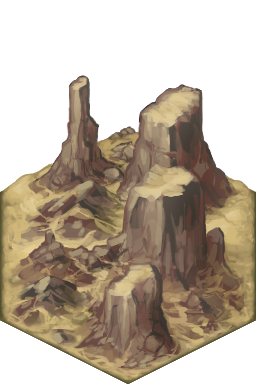
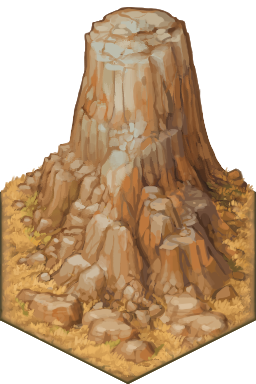
feat(territory): blend biome boundaries and rebalance terrain

diff --git a/src/ui/territory_map_painter.ts b/src/ui/territory_map_painter.ts
@@ -9,6 +9,7 @@ import {
   territoryMapArt,
   territoryMapArtKeyForCell,
   territoryMapArtTransformForCell,
+  territoryTransitionArtKey,
   territoryTerrainArtRect,
 } from './territory_map_art';
 import {
@@ -284,10 +285,10 @@ export class TerritoryMapPainter {
     const sorted = [...cells].sort((a, b) => a.my - b.my || a.mx - b.mx);
     ctx.imageSmoothingEnabled = true;
     ctx.imageSmoothingQuality = 'high';
-    // Each cell draws exactly one complete authored tile. Flat ground variants
-    // can turn in exact sixth-steps; upright silhouettes only mirror, keeping
-    // their isometric vertical read intact. Back-to-front order preserves the
-    // trees, mountains and buildings that rise above the common footprint.
+    // Each cell draws one complete authored tile, followed by six possible
+    // neighbor-aware material bands. The bands are generated at runtime for
+    // every directional combination, avoiding a brittle transition-sprite
+    // matrix while keeping the exact authored hex footprint and pivot.
     for (const cell of sorted) {
       const key = territoryMapArtKeyForCell(cell);
       const image = art[key];
@@ -305,7 +306,63 @@ export class TerritoryMapPainter {
       if (transform.mirrorX) ctx.scale(-1, 1);
       ctx.drawImage(image, rect.x - cell.mx, rect.y - cell.my, rect.width, rect.height);
       ctx.restore();
+      this.biomeTransitions(ctx, cell, art);
     }
+  }
+
+  private biomeTransitions(
+    ctx: CanvasRenderingContext2D,
+    cell: TerritoryMapHex,
+    art: TerritoryMapArt,
+  ): void {
+    for (let side = 0; side < 6; side += 1) {
+      const neighborBiome = cell.neighborBiomes[side];
+      if (!neighborBiome || neighborBiome === cell.biome) continue;
+      const key = territoryTransitionArtKey(neighborBiome, cell.q, cell.r, side);
+      const image = art[key];
+      if (!image) continue;
+      const rect = territoryTerrainArtRect(cell.mx, cell.my, cell.radiusPx);
+      const transform = territoryMapArtTransformForCell(
+        { q: cell.q + side * 17, r: cell.r - side * 11 },
+        key,
+      );
+      // Two nested trapezoids feather the neighbor material into this cell.
+      // The opposite cell performs the mirrored operation, giving every shared
+      // edge a soft two-material handoff without hiding either tile's centre.
+      this.transitionBand(ctx, cell, side, 1, 0.72, image, rect, transform, 0.5);
+      this.transitionBand(ctx, cell, side, 0.72, 0.5, image, rect, transform, 0.19);
+    }
+  }
+
+  private transitionBand(
+    ctx: CanvasRenderingContext2D,
+    cell: TerritoryMapHex,
+    side: number,
+    outerScale: number,
+    innerScale: number,
+    image: HTMLImageElement,
+    rect: ReturnType<typeof territoryTerrainArtRect>,
+    transform: ReturnType<typeof territoryMapArtTransformForCell>,
+    alpha: number,
+  ): void {
+    const start = -Math.PI / 6 - (Math.PI / 3) * side;
+    const end = start + Math.PI / 3;
+    const outer = cell.radiusPx * outerScale;
+    const inner = cell.radiusPx * innerScale;
+    ctx.save();
+    ctx.beginPath();
+    ctx.moveTo(cell.mx + Math.cos(start) * outer, cell.my + Math.sin(start) * outer);
+    ctx.lineTo(cell.mx + Math.cos(end) * outer, cell.my + Math.sin(end) * outer);
+    ctx.lineTo(cell.mx + Math.cos(end) * inner, cell.my + Math.sin(end) * inner);
+    ctx.lineTo(cell.mx + Math.cos(start) * inner, cell.my + Math.sin(start) * inner);
+    ctx.closePath();
+    ctx.clip();
+    ctx.globalAlpha = alpha;
+    ctx.translate(cell.mx, cell.my);
+    if (transform.rotationSteps) ctx.rotate((transform.rotationSteps * Math.PI) / 3);
+    if (transform.mirrorX) ctx.scale(-1, 1);
+    ctx.drawImage(image, rect.x - cell.mx, rect.y - cell.my, rect.width, rect.height);
+    ctx.restore();
   }
 
   private artForCell(cell: TerritoryMapHex, art: TerritoryMapArt): HTMLImageElement | undefined {

diff --git a/src/sim/territory_biome.ts b/src/sim/territory_biome.ts
@@ -63,12 +63,12 @@ function inlandTerrain(
   // directly here: that source is intentionally granular and would recreate
   // the checkerboard this visual geography is replacing. Both fields below
   // are low-frequency, so every branch produces a contiguous region.
-  if (elevation > 0.82) return 'mountain';
-  if (elevation > 0.72) return 'highland';
-  if (moisture > 0.72 && elevation < 0.43) return 'marsh';
-  if (moisture > 0.65) return 'forest';
-  if (moisture > 0.53) return 'woodlands';
-  if (moisture < 0.25 && elevation < 0.42) return 'wastes';
+  if (elevation > 0.93) return 'mountain';
+  if (elevation > 0.84) return 'highland';
+  if (moisture > 0.8 && elevation < 0.39) return 'marsh';
+  if (moisture > 0.82) return 'forest';
+  if (moisture > 0.6) return 'woodlands';
+  if (moisture < 0.18 && elevation < 0.36) return 'wastes';
   return 'grassland';
 }
 
@@ -89,21 +89,21 @@ export function territoryVisualBiome(
 
   // Cold cap. Elevation and moisture select broad sub-regions, not individual
   // random tiles, because both fields are sampled on a seven/eight-cell lattice.
-  if (ny < -0.36) {
-    if (elevation > 0.57 || Math.abs(nx + 0.06) < 0.1) return 'snowMountain';
-    return moisture > 0.5 ? 'snowForest' : 'snowfield';
+  if (ny < -0.67) {
+    if (elevation > 0.84 || (Math.abs(nx + 0.06) < 0.04 && elevation > 0.7)) return 'snowMountain';
+    return moisture > 0.7 ? 'snowForest' : 'snowfield';
   }
 
   // Warm continental east/south-east. Tall mesas stay within the desert mass
   // so their silhouettes do not pepper otherwise green land.
-  if (nx > 0.3 && ny > -0.12) {
-    return elevation > 0.58 ? 'desertMesa' : 'desert';
+  if (nx > 0.61 && ny > -0.02) {
+    return nx > 0.78 && elevation > 0.78 ? 'desertMesa' : 'desert';
   }
 
   // A diagonal mountain spine separates the western temperate lands from the
   // dry east. Noise breaks it into natural passes while preserving continuity.
   const ridge = Math.abs(nx + ny * 0.28 + 0.05);
-  if (ridge < 0.1 && elevation > 0.38) return elevation > 0.55 ? 'mountain' : 'highland';
+  if (ridge < 0.045 && elevation > 0.62) return elevation > 0.83 ? 'mountain' : 'highland';
 
   return inlandTerrain(cell.terrain, moisture, elevation);
 }

diff --git a/src/ui/territory_map_art.ts b/src/ui/territory_map_art.ts
@@ -40,6 +40,22 @@ export interface TerritoryMapArtRect {
   height: number;
 }
 
+export type TerritoryTransitionArtKey =
+  | 'grassland'
+  | 'grasslandAlt'
+  | 'woodlands'
+  | 'highland'
+  | 'highlandAlt'
+  | 'marsh'
+  | 'marshAlt'
+  | 'marshBog'
+  | 'snowfield'
+  | 'snowfieldAlt'
+  | 'desert'
+  | 'desertAlt'
+  | 'wastes'
+  | 'wastesAlt';
+
 const HEX_HEIGHT = Math.sqrt(3);
 const SOURCE_HEIGHT = 384;
 const SOURCE_FOOTPRINT_TOP = 123;
@@ -113,6 +129,31 @@ function artHash(q: number, r: number, salt: number): number {
   let value = Math.imul(q ^ salt, 0x45d9f3b) ^ Math.imul(r + salt, 0x119de1f3);
   value = Math.imul(value ^ (value >>> 16), 0x45d9f3b);
   return (value ^ (value >>> 16)) >>> 0;
+}
+
+/**
+ * Returns a low-silhouette material layer for a directional biome seam. Tall
+ * forests, mesas and mountains deliberately collapse to their matching ground
+ * material so transition bands never duplicate upright landmarks.
+ */
+export function territoryTransitionArtKey(
+  biome: TerritoryVisualBiome,
+  q: number,
+  r: number,
+  side: number,
+): TerritoryTransitionArtKey {
+  const variant = artHash(q + side * 17, r - side * 11, 0x5ac4_17e9);
+  if (biome === 'grassland') return variant % 3 === 0 ? 'grasslandAlt' : 'grassland';
+  if (biome === 'woodlands' || biome === 'forest') return 'woodlands';
+  if (biome === 'highland' || biome === 'mountain')
+    return variant % 2 === 0 ? 'highlandAlt' : 'highland';
+  if (biome === 'marsh')
+    return variant % 3 === 0 ? 'marshBog' : variant % 2 === 0 ? 'marshAlt' : 'marsh';
+  if (biome === 'snowfield' || biome === 'snowForest' || biome === 'snowMountain')
+    return variant % 3 === 0 ? 'snowfieldAlt' : 'snowfield';
+  if (biome === 'desert' || biome === 'desertMesa')
+    return variant % 3 === 0 ? 'desertAlt' : 'desert';
+  return variant % 2 === 0 ? 'wastesAlt' : 'wastes';
 }
 
 /** Couples visual density to the resource tier while varying ordinary terrain. */

diff --git a/tests/territory_biome.test.ts b/tests/territory_biome.test.ts
@@ -56,6 +56,25 @@ describe('territory visual biomes', () => {
     expect([...biomes].some((biome) => ['highland', 'mountain'].includes(biome))).toBe(true);
   });
 
+  it('keeps landmark biomes sparse and lets temperate ground dominate', () => {
+    const manifest = createTerritoryManifest(20);
+    const counts = new Map<string, number>();
+    for (const cell of manifest.cells) {
+      const biome = territoryVisualBiome(cell, manifest.radius);
+      counts.set(biome, (counts.get(biome) ?? 0) + 1);
+    }
+    const count = (...biomes: string[]): number =>
+      biomes.reduce((sum, biome) => sum + (counts.get(biome) ?? 0), 0);
+
+    expect(count('grassland', 'woodlands')).toBeGreaterThan(manifest.cells.length * 0.55);
+    expect(count('mountain', 'snowMountain')).toBeLessThan(manifest.cells.length * 0.08);
+    expect(count('snowfield', 'snowForest', 'snowMountain')).toBeLessThan(
+      manifest.cells.length * 0.16,
+    );
+    expect(count('desert', 'desertMesa')).toBeLessThan(manifest.cells.length * 0.12);
+    expect(count('forest')).toBeLessThan(manifest.cells.length * 0.08);
+  });
+
   it('is visual-only and leaves the authoritative manifest checksum untouched', () => {
     const before = createTerritoryManifest(20).checksum;
     for (const cell of createTerritoryManifest(20).cells) territoryVisualBiome(cell, 20);

diff --git a/tests/territory_map_art.test.ts b/tests/territory_map_art.test.ts
@@ -7,6 +7,7 @@ import {
   territoryFeatureArtRect,
   territoryMapArtKeyForCell,
   territoryMapArtTransformForCell,
+  territoryTransitionArtKey,
   territoryTerrainArtRect,
 } from '../src/ui/territory_map_art';
 
@@ -89,5 +90,14 @@ describe('territory map art bundle', () => {
     expect(flat.mirrorX).toBe(false);
     expect(mountain.rotationSteps).toBe(0);
     expect(typeof mountain.mirrorX).toBe('boolean');
+  });
+
+  it('uses low-silhouette material art for every biome transition', () => {
+    expect(territoryTransitionArtKey('mountain', 1, 2, 0)).toMatch(/^highland/);
+    expect(territoryTransitionArtKey('snowMountain', 1, 2, 1)).toMatch(/^snowfield/);
+    expect(territoryTransitionArtKey('forest', 1, 2, 2)).toBe('woodlands');
+    expect(territoryTransitionArtKey('desertMesa', 1, 2, 3)).toMatch(/^desert/);
+    expect(painterSource).toContain('this.biomeTransitions(ctx, cell, art)');
+    expect(painterSource).toContain('this.transitionBand(ctx, cell, side');
   });
 });

diff --git a/src/ui/territory_map_view.ts b/src/ui/territory_map_view.ts
@@ -52,6 +52,8 @@ export interface TerritoryMapHex {
   hovered: boolean;
   selected: boolean;
   borderSides: readonly boolean[];
+  /** Visual biome on each axial side, in TERRITORY_AXIAL_DIRECTIONS order. */
+  neighborBiomes: readonly (TerritoryVisualBiome | null)[];
 }
 
 export interface TerritoryMapModel {
@@ -162,6 +164,10 @@ export function buildTerritoryMapModel(input: {
           if (!owner) return false;
           const neighbor = manifest.byAxial.get(axialKey(q + dq, r + dr));
           return !neighbor || owned.get(neighbor.id)?.ownerGuildId !== owner.ownerGuildId;
+        }),
+        neighborBiomes: TERRITORY_AXIAL_DIRECTIONS.map(([dq, dr]) => {
+          const neighbor = manifest.byAxial.get(axialKey(q + dq, r + dr));
+          return neighbor ? territoryVisualBiome(neighbor, manifest.radius) : null;
         }),
       });
     }

diff --git a/tests/territory_map_view.test.ts b/tests/territory_map_view.test.ts
@@ -89,6 +89,9 @@ describe('territory map view', () => {
     expect(
       territoryCellAt(createTerritoryManifest(), model.view, 560, southEast.mx, southEast.my),
     ).toBe(southEast.cellId);
+    expect(centre.neighborBiomes).toHaveLength(6);
+    expect(centre.neighborBiomes[0]).toBe(east.biome);
+    expect(centre.neighborBiomes[5]).toBe(southEast.biome);
   });
 
   it('marks only the outside edges of contiguous guild territory', () => {
